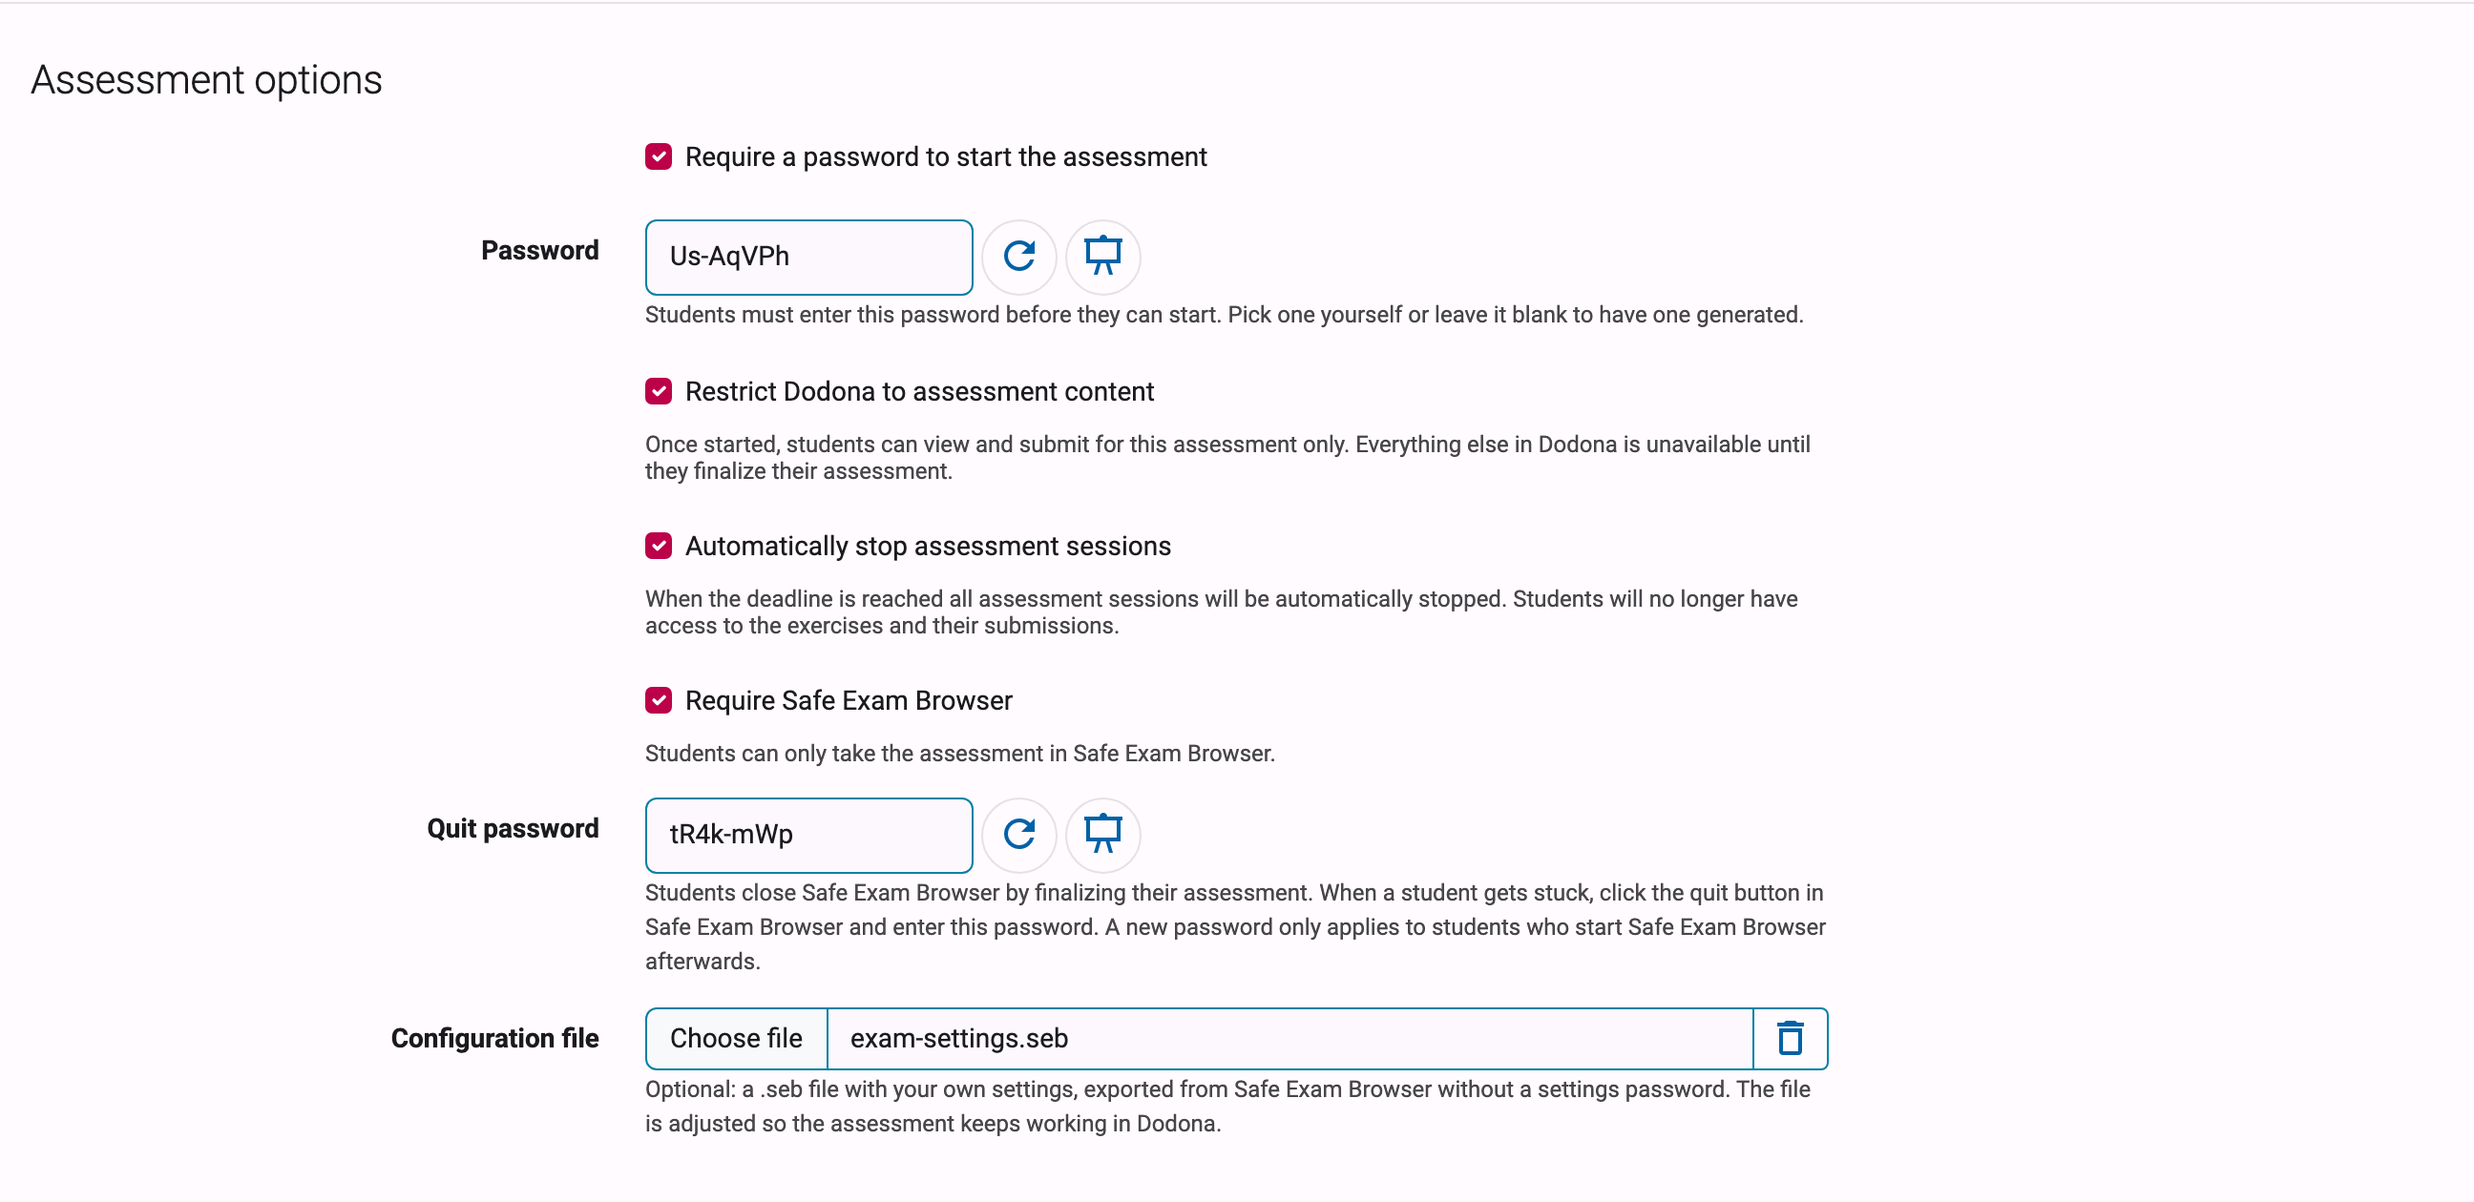
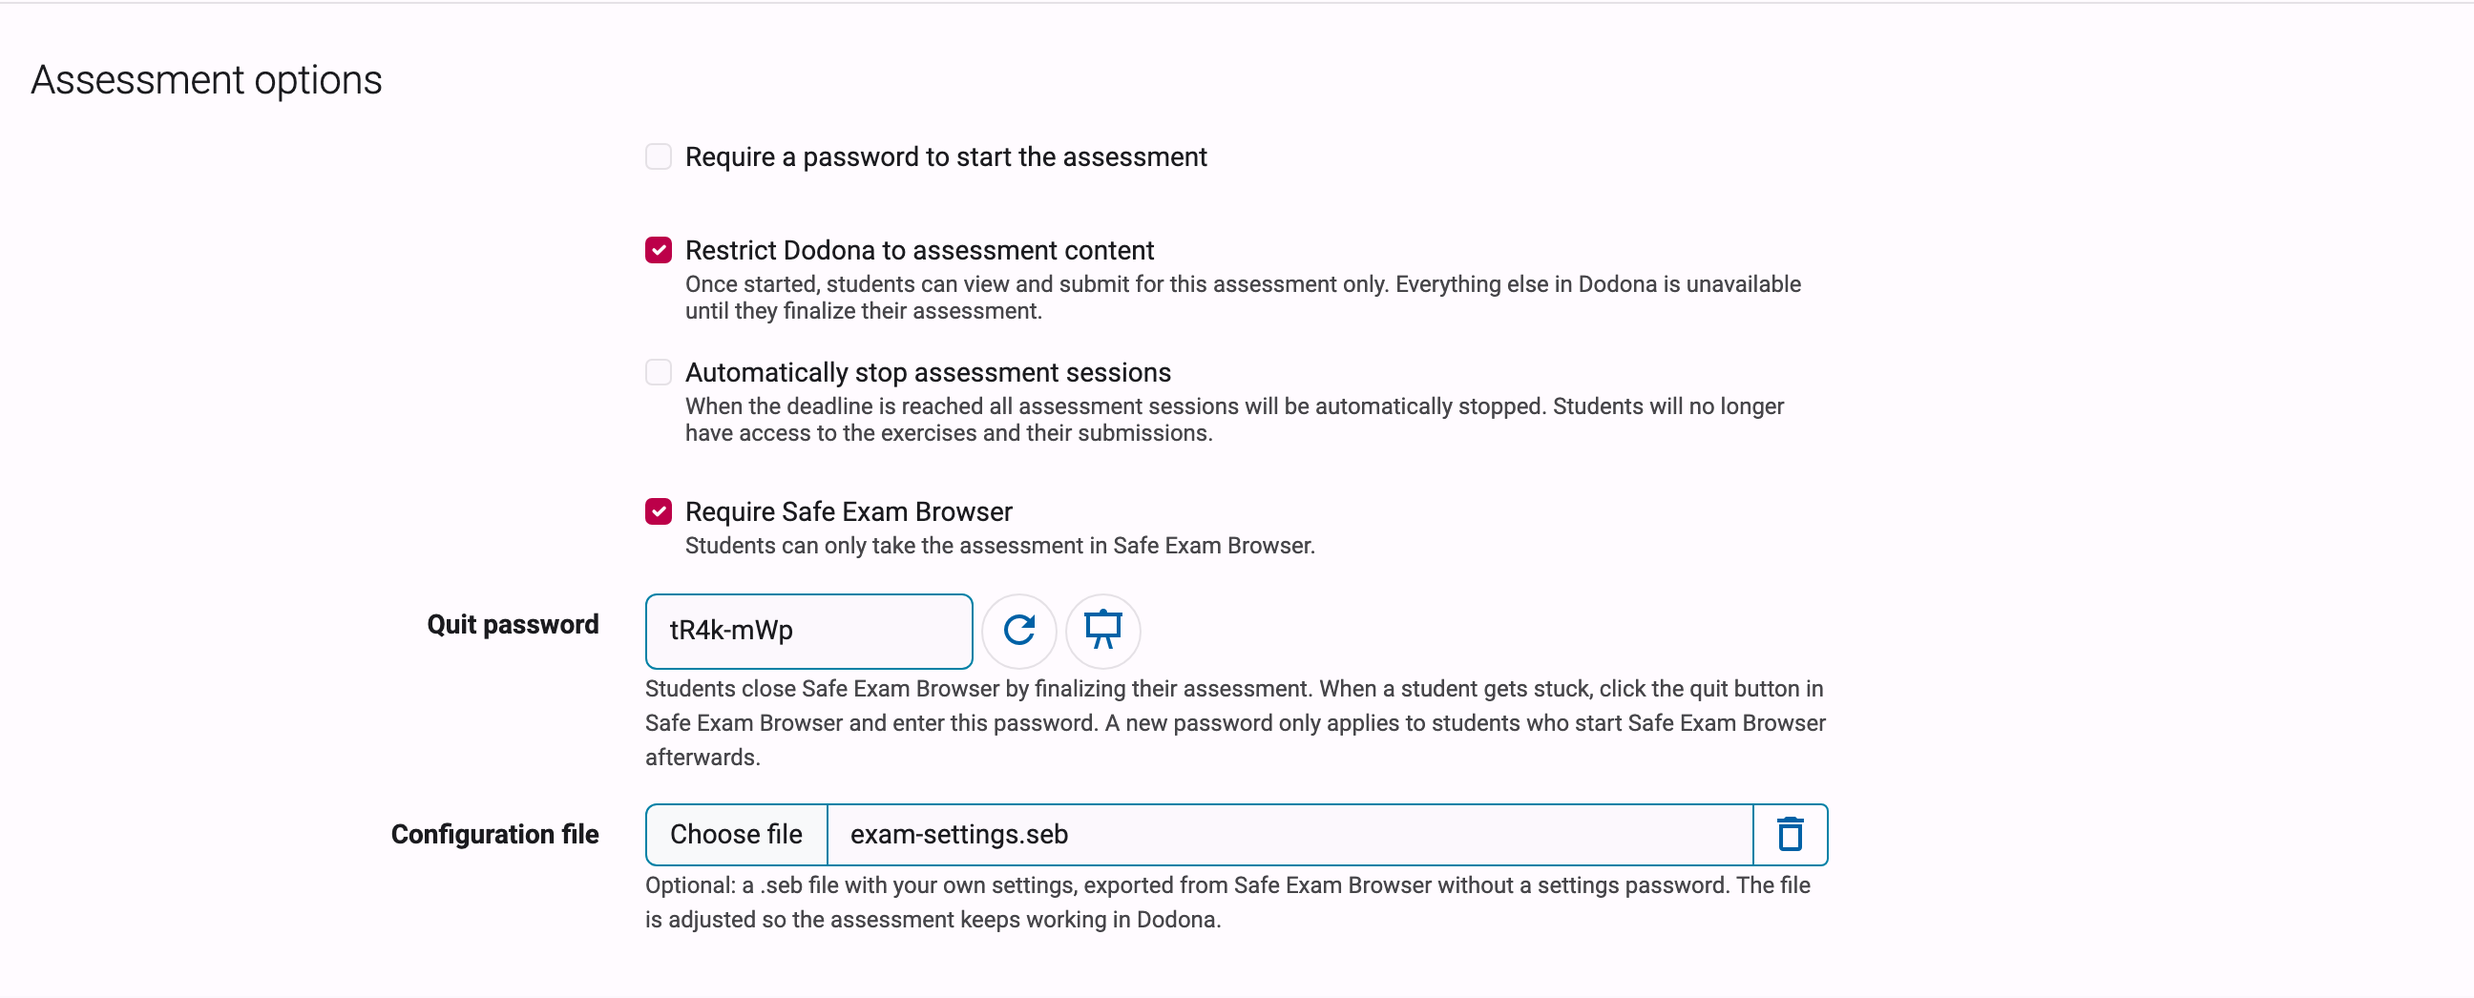
Retake the Safe Exam Browser screenshots and apply the review of the section
The form screenshots now show the checkbox layout from dodona#9939. The
Safe Exam Browser shots only keep "Restrict Dodona to assessment
content" on next to it, so Safe Exam Browser stands out on the form and
on the student's start card; the state script turns the password and
auto-stop off, and its teardown turns them back on.

Text changes from the review:
- the beta note points to the beta announcement on the forum instead of
  support@dodona.be;
- restricting Dodona is optional, to only allow the assessment;
- the quit password is for a student who is stuck and can't get out of
  Safe Exam Browser otherwise; the advice to keep it from students goes;
- the warning speaks of students who already started, and points to
  stopping the session from the assessment overview;
- the configuration file only needs no settings password;
- the 5-minute limit of the start link goes;
- the quit password also unlocks the "SEB LOCKED" screen (dodona#9341).

diff --git a/screenshots/state/assessments-safe-exam-browser.setup.rb b/screenshots/state/assessments-safe-exam-browser.setup.rb
@@ -4,6 +4,9 @@
 # in guides/teachers/assessments (en+nl). Requires Safe Exam Browser on that exam series,
 # with a fixed quit password and a stored configuration file, so the series form shows
 # the whole Safe Exam Browser section and the student's start card shows its notice.
+# Only "Restrict Dodona to assessment content" stays on next to it (the guide asks for it
+# with Safe Exam Browser); the password and auto-stop go off, so Safe Exam Browser stands
+# out in both shots.
 #
 # The Safe Exam Browser rows on the series form only appear for teachers with the
 # `safe_exam_browser` Flipper flag (in beta since 2026-11); the development seeds enable
@@ -27,7 +30,7 @@ abort 'assessments-safe-exam-browser: run assessments-exam-series.setup.rb first
 Flipper.enable_actor(:safe_exam_browser, User.find(1))
 
 series = Series.find(series_id)
-series.update!(exam_safe_exam_browser: true)
+series.update!(exam_safe_exam_browser: true, activity_access: :open, exam_lockdown_mode: true, exam_auto_close: false)
 series.safe_exam_browser_config.update!(
   quit_password: 'tR4k-mWp',
   upload_xml: Seb::Plist.generate({ 'URLFilterEnable' => true, 'allowSpellCheck' => false }),

diff --git a/screenshots/state/assessments-safe-exam-browser.teardown.rb b/screenshots/state/assessments-safe-exam-browser.teardown.rb
@@ -1,7 +1,8 @@
 # bin/rails runner screenshots/state/assessments-safe-exam-browser.teardown.rb
 #
 # Undoes assessments-safe-exam-browser.setup.rb: the exam series no longer requires Safe
-# Exam Browser and loses its config. The Flipper flag stays on for zeus, as the
+# Exam Browser and loses its config, and gets the password and auto-stop of
+# assessments-exam-series back. The Flipper flag stays on for zeus, as the
 # development seeds set it. assessments-exam-series.teardown.rb destroys the whole series
 # afterwards anyway.
 # Idempotent: safe to run with no series and/or no state file present.
@@ -14,7 +15,7 @@ series = Series.find_by(id: state.dig('assessments-exam-series', 'series_id'))
 
 if series
   series.safe_exam_browser_config&.destroy!
-  series.update!(exam_safe_exam_browser: false)
+  series.update!(exam_safe_exam_browser: false, activity_access: :password, exam_auto_close: true)
   puts "assessments-safe-exam-browser: series #{series.id} no longer requires Safe Exam Browser"
 else
   puts 'assessments-safe-exam-browser: no exam series found, nothing to undo'

diff --git a/nl/guides/teachers/assessments/index.md b/nl/guides/teachers/assessments/index.md
@@ -121,33 +121,33 @@ Je kan de tijdslijn filteren op `Gebruiker`, `Actie`, `Uitvoerder`, `IP adres` e
 ## Safe Exam Browser
 
 ::: info Bèta
-Ondersteuning voor Safe Exam Browser is in bèta: de optie verschijnt enkel voor lesgevers die aan de bèta deelnemen. Wil je ze uitproberen? Contacteer ons via [support@dodona.be](mailto:support@dodona.be).
+Ondersteuning voor Safe Exam Browser is in bèta: de optie verschijnt enkel voor lesgevers die aan de bèta deelnemen. Wil je ze uitproberen? Meld je aan via de [aankondiging van de bèta](https://github.com/orgs/dodona-edu/discussions/categories/announcements) op ons forum, waar je ook de laatste wijzigingen vindt en feedback kan achterlaten.
 :::
 
 [Safe Exam Browser](https://safeexambrowser.org) is een gratis browser die de computer van de student vergrendelt tijdens een examen: studenten kunnen niet naar andere programma's wisselen, en ze kunnen enkel Dodona en de websites die jij toelaat openen. Als een toets Safe Exam Browser vereist, start Dodona het voor je studenten en meldt het hen aan, zodat je geen `.seb`-bestand of link hoeft te verdelen.
 
 ### Instellen
 
-Vink `Verplicht Safe Exam Browser` aan in de sectie `Toetsopties` van het reeksformulier. Vink ook [`Beperk Dodona tot de inhoud van de toets`](#een-toetsreeks-aanmaken) aan, want Safe Exam Browser laat heel Dodona toe.
+Vink `Verplicht Safe Exam Browser` aan in de sectie `Toetsopties` van het reeksformulier. Safe Exam Browser laat heel Dodona toe: vink ook [`Beperk Dodona tot de inhoud van de toets`](#een-toetsreeks-aanmaken) aan om enkel de toets toe te laten.
 
 ![Toetsopties met Verplicht Safe Exam Browser aangevinkt, het afsluitwachtwoord en een opgeslagen configuratiebestand](assessment-safe-exam-browser-nl.png)
 
 Met `Verplicht Safe Exam Browser` aangevinkt verschijnen er twee extra velden:
 
-* `Afsluitwachtwoord`: sluit Safe Exam Browser af wanneer een student het moet verlaten zonder de toets af te ronden, bijvoorbeeld omdat die vastzit. Kies zelf een wachtwoord, of behoud het gegenereerde; je kan het later wijzigen op het reeksformulier. Houd het weg van je studenten: daarmee kunnen ze Safe Exam Browser midden in de toets verlaten.
+* `Afsluitwachtwoord`: sluit Safe Exam Browser af wanneer een student vastzit in Dodona en er niet op een andere manier uit kan. Kies zelf een wachtwoord, of behoud het gegenereerde; je kan het later wijzigen op het reeksformulier.
 * `Configuratiebestand`: optioneel, zie [je eigen configuratiebestand](#je-eigen-configuratiebestand) hieronder.
 
 Vink je `Verplicht Safe Exam Browser` later uit, dan bewaart Dodona het afsluitwachtwoord en het configuratiebestand voor wanneer je het opnieuw aanvinkt. Een kopie van de reeks vereist nog steeds Safe Exam Browser, met een nieuw afsluitwachtwoord maar zonder je configuratiebestand: upload het opnieuw in de kopie.
 
 ::: warning Het afsluitwachtwoord wijzigen tijdens een toets
-Een nieuw afsluitwachtwoord geldt pas voor studenten die Safe Exam Browser daarna starten: studenten die er al in zitten, hebben nog het oude nodig. Wijzig het dus voor de toets begint, of noteer eerst het oude wachtwoord. Zonder dat wachtwoord kan een student van wie Safe Exam Browser Dodona niet meer bereikt, bijvoorbeeld omdat het netwerk uitvalt, er enkel uit door de computer opnieuw op te starten. Zolang Dodona bereikbaar is, werkt het stoppen van de sessie nog: binnen ongeveer een minuut toont Safe Exam Browser een knop `Safe Exam Browser afsluiten`.
+Een nieuw afsluitwachtwoord geldt pas voor studenten die Safe Exam Browser daarna starten: studenten die al begonnen zijn, hebben nog het oude nodig. Wijzig het dus voor de toets begint, of noteer eerst het oude wachtwoord. Zonder dat wachtwoord kan een student van wie Safe Exam Browser Dodona niet meer bereikt, bijvoorbeeld omdat het netwerk uitvalt, er enkel uit door de computer opnieuw op te starten. Zolang Dodona bereikbaar is, kan je de sessie ook stoppen via het [toetsoverzicht](#de-toets-opvolgen): binnen ongeveer een minuut toont Safe Exam Browser een knop `Safe Exam Browser afsluiten`.
 :::
 
 ### Je eigen configuratiebestand
 
 Upload je eigen configuratiebestand wanneer je andere instellingen voor Safe Exam Browser wil dan de standaardinstellingen, bijvoorbeeld om een extra website toe te laten zoals de documentatie van een programmeertaal. Zonder bestand gebruikt Safe Exam Browser zijn standaardinstellingen en laat het enkel Dodona toe. Maak het bestand met de configuratietool van Safe Exam Browser, en let op deze punten:
 
-* Bewaar het om een examen te starten, zonder instellingenwachtwoord: Dodona kan een versleuteld bestand niet lezen.
+* Stel geen instellingenwachtwoord in: Dodona kan een versleuteld bestand niet lezen.
 * Zet de URL-filter aan. Safe Exam Browser zet die standaard uit, en Dodona behoudt je keuze: met de filter uit kunnen studenten elke website openen.
 * Zet geen wachtwoorden of andere geheimen in het bestand: elke student die de toets start, krijgt het.
 
@@ -171,11 +171,11 @@ Studenten installeren [Safe Exam Browser](https://safeexambrowser.org/download_e
 De toets verloopt daarna zoals beschreven in [wat je studenten zien](#wat-je-studenten-zien), met deze verschillen:
 
 * Studenten vullen het toetswachtwoord in (indien vereist) in hun gewone browser. Na `Start toets` gaat Safe Exam Browser open, controleert het de instellingen en meldt het hen aan, en de toets opent vanzelf.
-* Gaat Safe Exam Browser niet open, bijvoorbeeld omdat het nog niet geïnstalleerd is, dan klikt de student op `Start toets opnieuw`. De link die Safe Exam Browser opent, werkt maar 5 minuten, dus een student die Safe Exam Browser intussen installeert, gebruikt ook die knop.
+* Gaat Safe Exam Browser niet open, bijvoorbeeld omdat het nog niet geïnstalleerd is, dan klikt de student op `Start toets opnieuw`.
 * `Toets afronden` sluit Safe Exam Browser vanzelf af.
 * Wanneer jij een sessie stopt, of Dodona ze stopt op de deadline, toont Safe Exam Browser dat de toets afgelopen is, met een knop `Safe Exam Browser afsluiten`.
 
-Zit een student vast in Safe Exam Browser, klik dan op de afsluitknop en geef het afsluitwachtwoord in, dat je in het [statuspaneel](#de-toets-opvolgen) vindt. Sluit Safe Exam Browser af tijdens de toets, dan blijft de sessie van de student bezig en kan die nog niet opnieuw starten. Herstel de toegang zoals bij een [dichtgeklikte browser](#wat-je-studenten-zien): `Stop sessie` en daarna `Heropen sessie`.
+Zit een student vast in Safe Exam Browser, klik dan op de afsluitknop en geef het afsluitwachtwoord in, dat je in het [statuspaneel](#de-toets-opvolgen) vindt. Met het afsluitwachtwoord ontgrendel je ook het scherm `SEB LOCKED`, dat Safe Exam Browser toont wanneer het start nadat een vorige sessie niet goed afgesloten werd, bijvoorbeeld omdat de computer tijdens de toets uitgezet werd. Sluit Safe Exam Browser af tijdens de toets, dan blijft de sessie van de student bezig en kan die nog niet opnieuw starten. Herstel de toegang zoals bij een [dichtgeklikte browser](#wat-je-studenten-zien): `Stop sessie` en daarna `Heropen sessie`.
 
 ::: tip Probeer het uit voor het examen
 Cursusbeheerders kunnen een toets niet zelf starten. Probeer het volledige verloop voor het examen uit met een account dat student is in de cursus, op het soort toestel dat je studenten zullen gebruiken.

diff --git a/en/guides/teachers/assessments/index.md b/en/guides/teachers/assessments/index.md
@@ -121,33 +121,33 @@ You can filter the timeline by `User`, `Action`, `Actor`, `IP address` and `Brow
 ## Safe Exam Browser
 
 ::: info Beta
-Safe Exam Browser support is in beta: the option only appears for teachers who take part in the beta. Would you like to try it? Contact us at [support@dodona.be](mailto:support@dodona.be).
+Safe Exam Browser support is in beta: the option only appears for teachers who take part in the beta. Would you like to try it? Join through the [beta announcement](https://github.com/orgs/dodona-edu/discussions/categories/announcements) on our forum, where you'll also find the latest changes and can leave feedback.
 :::
 
 [Safe Exam Browser](https://safeexambrowser.org) is a free browser that locks down the student's computer during an exam: students can't switch to other programs, and they can only open Dodona and the websites you allow. When an assessment requires Safe Exam Browser, Dodona starts it for your students and signs them in, so you don't have to hand out a `.seb` file or a link.
 
 ### Setting it up
 
-Tick `Require Safe Exam Browser` in the `Assessment options` section of the series form. Also tick [`Restrict Dodona to assessment content`](#creating-an-assessment-series), because Safe Exam Browser allows all of Dodona.
+Tick `Require Safe Exam Browser` in the `Assessment options` section of the series form. Safe Exam Browser allows all of Dodona: to only allow the assessment, also tick [`Restrict Dodona to assessment content`](#creating-an-assessment-series).
 
 ![Assessment options with Require Safe Exam Browser ticked, the quit password and a stored configuration file](assessment-safe-exam-browser-en.png)
 
 Ticking `Require Safe Exam Browser` adds two fields:
 
-* `Quit password`: closes Safe Exam Browser when a student has to leave it without finalizing the assessment, for example because they're stuck. Pick a password yourself, or keep the one that was generated; you can change it on the series form later. Keep it from your students: with it, they can leave Safe Exam Browser in the middle of the assessment.
+* `Quit password`: closes Safe Exam Browser when a student is stuck in Dodona and can't get out of it otherwise. Pick a password yourself, or keep the one that was generated; you can change it on the series form later.
 * `Configuration file`: optional, see [your own configuration file](#your-own-configuration-file) below.
 
 If you untick `Require Safe Exam Browser` later, Dodona keeps the quit password and the configuration file for when you tick it again. A copy of the series still requires Safe Exam Browser, with a new quit password but without your configuration file: upload it again in the copy.
 
 ::: warning Changing the quit password during an assessment
-A new quit password only applies to students who start Safe Exam Browser afterwards: students who are already in it still need the old one. So change it before the assessment starts, or note the old password first. Without it, a student whose Safe Exam Browser can no longer reach Dodona, for example because the network is down, can only get out by restarting their computer. As long as Dodona can be reached, stopping their session still works: within about a minute, Safe Exam Browser shows a `Close Safe Exam Browser` button.
+A new quit password only applies to students who start Safe Exam Browser afterwards: students who already started still need the old one. So change it before the assessment starts, or note the old password first. Without it, a student whose Safe Exam Browser can no longer reach Dodona, for example because the network is down, can only get out by restarting their computer. As long as Dodona can be reached, you can also stop their session from the [assessment overview](#monitoring-the-assessment): within about a minute, Safe Exam Browser shows a `Close Safe Exam Browser` button.
 :::
 
 ### Your own configuration file
 
 Upload your own configuration file when you want other Safe Exam Browser settings than the defaults, for example to allow an extra website such as the documentation of a programming language. Without one, Safe Exam Browser uses its default settings and only allows Dodona. Create the file with Safe Exam Browser's configuration tool, and keep these points in mind:
 
-* Save it for starting an exam, without a settings password: Dodona can't read an encrypted file.
+* Don't set a settings password: Dodona can't read an encrypted file.
 * Turn on the URL filter. Safe Exam Browser turns it off by default, and Dodona keeps your choice: with the filter off, students can open any website.
 * Don't put passwords or other secrets in the file: every student who starts the assessment receives it.
 
@@ -171,11 +171,11 @@ Students install [Safe Exam Browser](https://safeexambrowser.org/download_en.htm
 The assessment then runs as described in [what your students see](#what-your-students-see), with these differences:
 
 * Students enter the assessment password (if required) in their usual browser. After `Start assessment`, Safe Exam Browser opens, checks its settings and signs them in, and the assessment opens by itself.
-* If Safe Exam Browser doesn't open, for example because it isn't installed yet, the student clicks `Start assessment again`. The link that opens Safe Exam Browser only works for 5 minutes, so a student who installs Safe Exam Browser in the meantime also uses that button.
+* If Safe Exam Browser doesn't open, for example because it isn't installed yet, the student clicks `Start assessment again`.
 * `Finalize assessment` closes Safe Exam Browser by itself.
 * When you stop a session, or Dodona stops it at the deadline, Safe Exam Browser shows that the assessment has ended, with a `Close Safe Exam Browser` button.
 
-When a student is stuck in Safe Exam Browser, click its quit button and enter the quit password, which you find in the [status panel](#monitoring-the-assessment). If Safe Exam Browser closes during the assessment, the student's session stays in progress and they can't start again yet. Restore access as for a [closed browser](#what-your-students-see): `Stop session` and then `Re-open session`.
+When a student is stuck in Safe Exam Browser, click its quit button and enter the quit password, which you find in the [status panel](#monitoring-the-assessment). The quit password also unlocks the `SEB LOCKED` screen, which Safe Exam Browser shows when it starts after an earlier session wasn't closed properly, for example because the computer was switched off during the assessment. If Safe Exam Browser closes during the assessment, the student's session stays in progress and they can't start again yet. Restore access as for a [closed browser](#what-your-students-see): `Stop session` and then `Re-open session`.
 
 ::: tip Try it before the exam
 Course administrators can't start an assessment themselves. Try the whole flow before the exam with an account that is a student in the course, on the kind of device your students will use.
